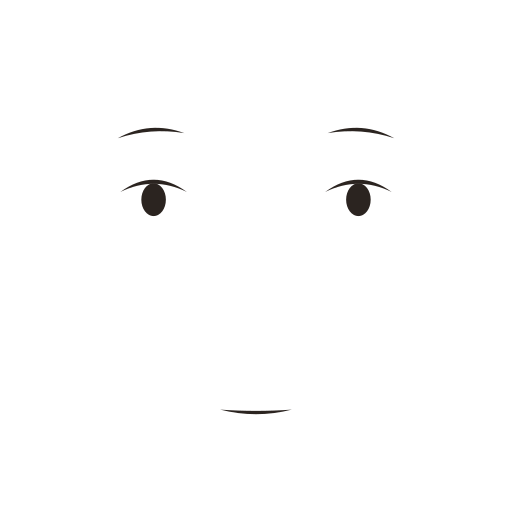
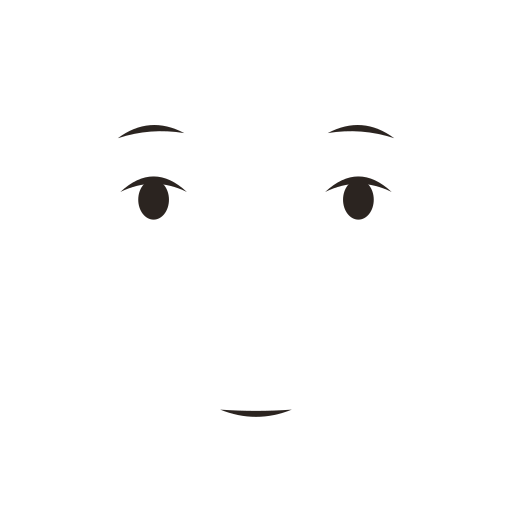
wip(figures): own toon material (flat dye, cel step, view-angle ink) + face projected from the head bone

diff --git a/engine-mvp/src/figures/figure.ts b/engine-mvp/src/figures/figure.ts
@@ -1,16 +1,16 @@
 // A History Lines comic figure: the standard body, dyed flat, inked with a pixel-width hull, a two-step cel
-// shade, a painted face (decals swapped per expression) and a pose. Lessons ask for one by recipe.
+// shade, a painted face (an expression image projected from the head bone) and a pose. Lessons ask for one by recipe.
 //
 //   const fig = await createFigure(scene, recipeFor('boer-vrouw'))
 //   fig.setPose('carry'); fig.setExpression('worried')
 //   placeFigure(scene, fig, { x: 0.4, depth: 'mid', facing: 'left' }, stage)   // stage = S1's Stage25D
 import {
-  Color3, LoadAssetContainerAsync, MeshBuilder, StandardMaterial, Texture, TransformNode, Vector3, VertexBuffer,
+  Color3, LoadAssetContainerAsync, Matrix, Texture, TransformNode, Vector3, VertexBuffer,
   type AbstractMesh, type AnimationGroup, type AssetContainer, type Mesh, type Scene,
 } from '@babylonjs/core'
 import '@babylonjs/loaders/glTF'
 import { retarget, type ClipName } from './clips'
-import { toonMaterial } from './toon'
+import { toonMaterial, type FaceProjector, type ToonMaterial } from './toon'
 import { applyPose, captureRest, frameOf, pos, POSES, resetToRest, rigOf, type Rig, type Violation } from './pose'
 import { BEARDS, DEFAULT_DYES, HAIRS, HATS, type DyeRole, type Expression, type FigureRecipe, type Hex, type Pose } from './recipes'
 
@@ -19,7 +19,7 @@ export const FACE_URL = (e: Expression) => `figures/faces/${e}.png`
 const EXPRESSIONS: Expression[] = ['neutral', 'happy', 'worried', 'surprised']
 
 // face decal placement, in eye-distances (eyes sit at 30/70 % across and 38 % down the decal art)
-export const FACE = { scale: 2.5, down: 0.3, depth: 0.09 }
+export const FACE = { scale: 2.5, down: 0.12, depth: 0.12 }
 // facing: 'left'/'right' turn this far from the camera toward that side (90 = pure profile; 3/4 reads best)
 export const FACING_TURN_DEG = 62
 
@@ -45,7 +45,7 @@ const faceTex = new Map<string, Texture>()
 function face(e: Expression, scene: Scene) {
   const key = `${scene.uid}:${e}`
   if (!faceTex.has(key)) {
-    const t = new Texture(FACE_URL(e), scene, false, true)
+    const t = new Texture(FACE_URL(e), scene, true, true) // no mipmaps: thin ink lines would average away
     t.hasAlpha = true
     faceTex.set(key, t)
   }
@@ -124,14 +124,12 @@ export async function createFigure(scene: Scene, recipe: FigureRecipe, name = 'f
     live.push({ mesh: m, part })
   }
 
-  // painted face: one projector, decals on the skin and on the eyeballs so the eyes land in the sockets
-  const decals = paintFace(scene, rig, live.filter((l) => l.part.role === 'skin' || l.part.role === 'eye').map((l) => l.mesh as Mesh), name)
-  const setExpression = (e: Expression) => decals.forEach((d) => {
-    const t = face(e, scene)
-    const dm = d.material as StandardMaterial
-    dm.emissiveTexture = t
-    dm.opacityTexture = t
-  })
+  // painted face: one projector box riding the head bone, read by the skin and eyeball materials
+  const faceMats = live.filter((l) => l.part.role === 'skin' || l.part.role === 'eye').map((l) => l.mesh.material as ToonMaterial)
+  const projector = faceProjector(rig, live.filter((l) => l.part.role === 'eye').map((l) => l.mesh))
+  faceMats.forEach((m) => (m.face = projector.face))
+  const follow = scene.onBeforeRenderObservable.add(projector.update)
+  const setExpression = (e: Expression) => { projector.face.tex = face(e, scene) }
   setExpression(recipe.expression)
   EXPRESSIONS.forEach((e) => face(e, scene)) // preload: a swap mid-scene never blinks
 
@@ -152,11 +150,11 @@ export async function createFigure(scene: Scene, recipe: FigureRecipe, name = 'f
     },
     setExpression,
     setDye(role, hex) {
-      live.filter((l) => l.part.role === role).forEach((l) => (l.mesh.material as ReturnType<typeof toonMaterial>).dye.copyFrom(hexRgb(hex)))
+      live.filter((l) => l.part.role === role).forEach((l) => (l.mesh.material as ToonMaterial).dye.copyFrom(hexRgb(hex)))
     },
     dispose() {
       clips.forEach((p) => void p.then((g) => g.dispose()))
-      decals.forEach((d) => d.dispose(false, true))
+      scene.onBeforeRenderObservable.remove(follow)
       root.dispose(false, true)
     },
   }
@@ -164,35 +162,38 @@ export async function createFigure(scene: Scene, recipe: FigureRecipe, name = 'f
   return fig
 }
 
-function paintFace(scene: Scene, rig: Rig, targets: Mesh[], name: string): Mesh[] {
+function faceProjector(rig: Rig, eyes: AbstractMesh[]) {
   const f = frameOf(rig)
   const world = rig.root.getWorldMatrix()
-  const W = (v: Vector3) => Vector3.TransformCoordinates(v, world)
   const N = (v: Vector3) => Vector3.TransformNormal(v, world).normalize()
-  const eyes = targets.find((t) => t.name.startsWith('Geo_Eyes'))
-  // eye centre: the eyeball meshes' box centre; eye distance: their width across the face
-  const box = eyes?.getBoundingInfo().boundingBox
-  const centre = box ? box.centerWorld.clone() : W(pos(rig, 'head'))
-  const side = N(f.left)
-  const span = box ? Math.abs(Vector3.Dot(box.maximumWorld.subtract(box.minimumWorld), side)) : 0.1
-  const eyeDist = span * 0.5 // two eyeballs: centre-to-centre is about half the pair's outer width
-  const size = eyeDist * FACE.scale
-  const up = N(f.up)
-  const at = centre.subtract(up.scale(size * FACE.down))
-  const normal = N(f.fwd)
-  const mat = new StandardMaterial(`${name}_face`, scene)
-  mat.disableLighting = true
-  mat.diffuseColor = Color3.Black()
-  mat.emissiveColor = Color3.Black()
-  mat.zOffset = -2
-  mat.backFaceCulling = true
-  return targets.map((t) => {
-    const d = MeshBuilder.CreateDecal(`${name}_decal_${t.name}`, t, { position: at.add(normal.scale(0.02)), normal, size: new Vector3(size, size, FACE.depth), angle: 0, cullBackFaces: true })
-    d.material = mat
-    d.isPickable = false
-    d.metadata = { anime: true }
-    return d
-  })
+  const side = N(f.left), up = N(f.up), fwd = N(f.fwd)
+  // eyes: the eyeball pair's box gives the centre and, minus one eyeball, the centre-to-centre distance
+  const lo = new Vector3(Infinity, Infinity, Infinity), hi = lo.negate()
+  eyes.forEach((e) => { const b = e.getBoundingInfo().boundingBox; lo.minimizeInPlace(b.minimumWorld); hi.maximizeInPlace(b.maximumWorld) })
+  const found = eyes.length > 0
+  const centre = found ? lo.add(hi).scale(0.5) : Vector3.TransformCoordinates(pos(rig, 'head'), world)
+  const span = found ? Math.abs(Vector3.Dot(hi.subtract(lo), side)) : 0.1
+  const size = span * 0.7 * FACE.scale
+  const at = centre.subtract(up.scale(size * FACE.down)).add(fwd.scale(FACE.depth * 0.25))
+  const axes = Matrix.FromValues(
+    side.x, side.y, side.z, 0,
+    up.x, up.y, up.z, 0,
+    fwd.x, fwd.y, fwd.z, 0,
+    0, 0, 0, 1)
+  const boxToWorld = Matrix.Scaling(size, size, FACE.depth).multiply(axes).multiply(Matrix.Translation(at.x, at.y, at.z))
+  const head = rig.node('head')
+  head.computeWorldMatrix(true)
+  const boxInHead = boxToWorld.multiply(Matrix.Invert(head.getWorldMatrix())) // fixed: the face moves with the head
+  const fwdInHead = Vector3.TransformNormal(fwd, Matrix.Invert(head.getWorldMatrix()))
+  const headToBox = Matrix.Invert(boxInHead)
+  const face: FaceProjector = { tex: null, toBox: Matrix.Identity(), fwd: fwd.clone() }
+  const update = () => {
+    const w = head.getWorldMatrix()
+    Matrix.Invert(w).multiplyToRef(headToBox, face.toBox) // world -> head -> box
+    Vector3.TransformNormalToRef(fwdInHead, w, face.fwd)
+  }
+  update()
+  return { face, update }
 }
 
 // ---------- place ----------

diff --git a/engine-mvp/src/figures/toon.ts b/engine-mvp/src/figures/toon.ts
@@ -4,7 +4,7 @@
 // fold lines (sleeve, collar, knee) with a weight that swells on round forms and thins on flat ones.
 // ponytail: anime-look's pixel-width inverted hull covered the garments on this skinned, mirrored rig (the
 // hull drew in front of the cloth at any width); this needs no extra mesh. Upgrade: fix the hull, add it back.
-import { Color3, Vector3, type Scene } from '@babylonjs/core'
+import { Color3, Matrix, Vector3, type BaseTexture, type Scene } from '@babylonjs/core'
 import { CustomMaterial } from '@babylonjs/materials'
 
 export const TOON = {
@@ -17,8 +17,13 @@ export const TOON = {
   inkSoft: 0.06,
 }
 
-export function toonMaterial(name: string, dye: Color3, scene: Scene): CustomMaterial & { dye: Color3; inkEdge?: number } {
-  const m = new CustomMaterial(name, scene) as CustomMaterial & { dye: Color3; inkEdge?: number }
+// The painted face: a projector box in front of the head (unit cube -> world, refreshed per frame from the head
+// bone); the expression image is projected onto whatever skin/eyeball lies inside it and faces it.
+export type FaceProjector = { tex: BaseTexture | null; toBox: Matrix; fwd: Vector3 }
+export type ToonMaterial = CustomMaterial & { dye: Color3; inkEdge?: number; face?: FaceProjector }
+
+export function toonMaterial(name: string, dye: Color3, scene: Scene): ToonMaterial {
+  const m = new CustomMaterial(name, scene) as ToonMaterial
   m.dye = dye.clone()
   m.specularColor = Color3.Black()
   m.backFaceCulling = true // garments are closed or doubled shells: drawing the inner side z-fights
@@ -30,6 +35,10 @@ export function toonMaterial(name: string, dye: Color3, scene: Scene): CustomMat
   m.AddUniform('inkColor', 'vec3', null)
   m.AddUniform('inkEdge', 'float', null)
   m.AddUniform('inkSoft', 'float', null)
+  m.AddUniform('faceBox', 'mat4', null)
+  m.AddUniform('faceFwd', 'vec3', null)
+  m.AddUniform('faceTex', 'sampler2D', null)
+  m.AddUniform('hasFace', 'float', null)
   m.Fragment_Before_FragColor(`
     vec3 n = normalize(vNormalW);
     vec3 toEye = normalize(vEyePosition.xyz - vPositionW);
@@ -37,7 +46,17 @@ export function toonMaterial(name: string, dye: Color3, scene: Scene): CustomMat
     float nl = dot(n, normalize(toLight));
     float lit = smoothstep(celStep - celSoft, celStep + celSoft, nl);
     float inked = 1.0 - smoothstep(inkEdge - inkSoft, inkEdge, nv);
-    color = vec4(mix(mix(dye * shadeTint, dye, lit), inkColor, inked), 1.0);
+    vec3 paint = mix(dye * shadeTint, dye, lit);
+    if (hasFace > 0.5) {
+      vec3 fp = (faceBox * vec4(vPositionW, 1.0)).xyz;
+      if (abs(fp.x) < 0.5 && abs(fp.y) < 0.5 && abs(fp.z) < 0.5) {
+        float facing = smoothstep(0.15, 0.4, abs(dot(n, normalize(faceFwd)))); // abs: the loader's mirror can flip vNormalW
+        vec4 f = texture2D(faceTex, fp.xy + 0.5);
+        paint = mix(paint, inkColor, smoothstep(0.05, 0.45, f.a) * facing); // the art is pure ink: only its alpha counts
+        inked *= 1.0 - facing; // eye sockets and the nose would ring with contour ink: the painted face draws them
+      }
+    }
+    color = vec4(mix(paint, inkColor, inked), 1.0);
   `)
   m.onBindObservable.add(() => {
     const e = m.getEffect()
@@ -50,6 +69,13 @@ export function toonMaterial(name: string, dye: Color3, scene: Scene): CustomMat
     e.setColor3('inkColor', TOON.ink)
     e.setFloat('inkEdge', m.inkEdge ?? TOON.inkEdge)
     e.setFloat('inkSoft', TOON.inkSoft)
+    const f = m.face
+    e.setFloat('hasFace', f?.tex ? 1 : 0)
+    if (f?.tex) {
+      e.setMatrix('faceBox', f.toBox)
+      e.setVector3('faceFwd', f.fwd)
+      e.setTexture('faceTex', f.tex)
+    }
   })
   return m
 }
